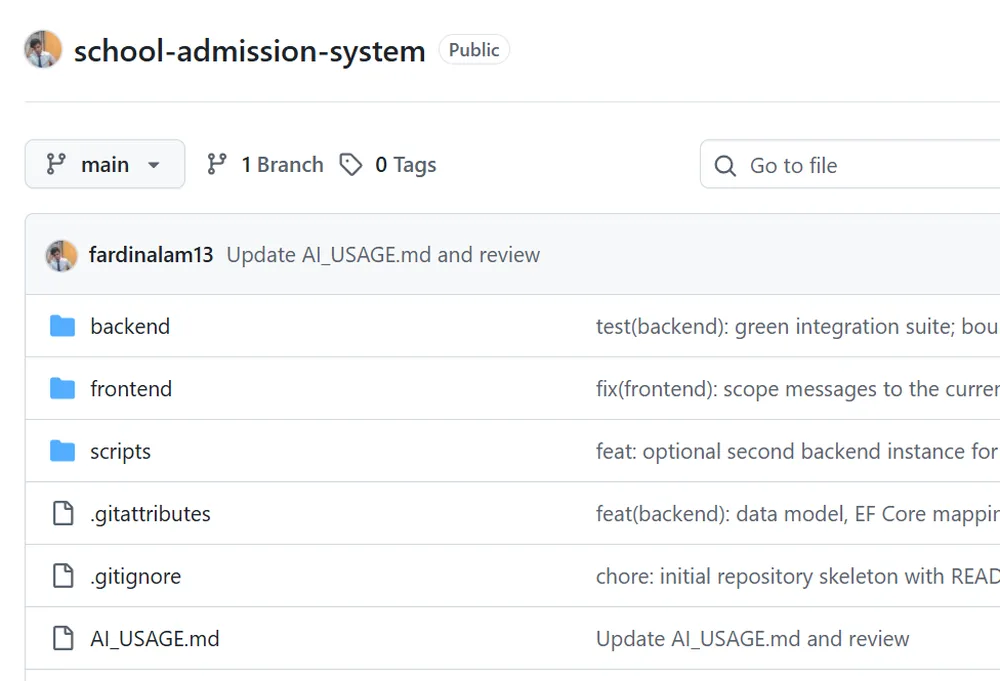
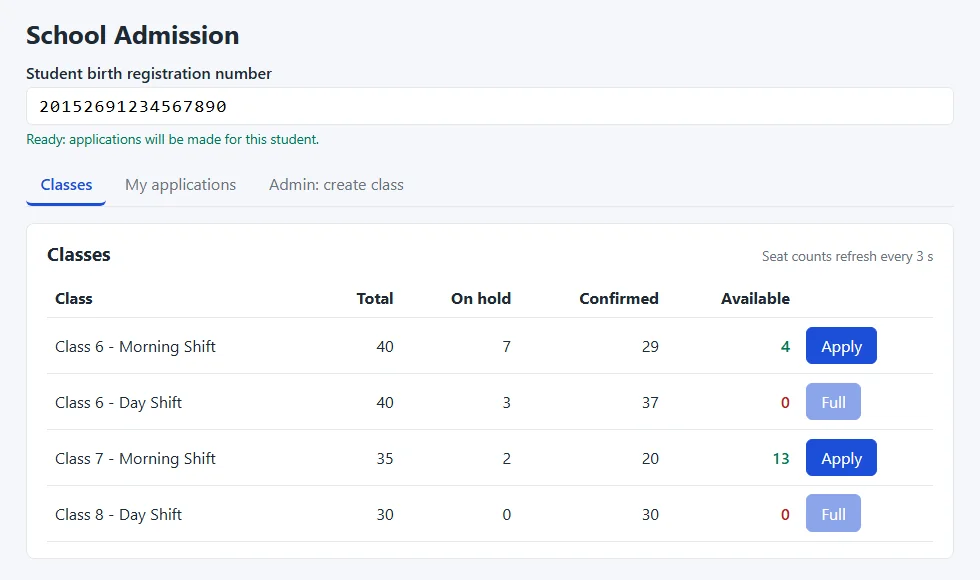
Show the School Admission System UI instead of the GitHub page
Project card now uses captures of the running React frontend: the Classes
tab with live seat accounting, and the My applications tab (hold countdown,
confirmed and expired cards) on hover.

diff --git a/index.html b/index.html
@@ -362,7 +362,8 @@
 
           <article class="project reveal">
             <a class="project__media" href="https://github.com/fardinalam13/school-admission-system" target="_blank" rel="noopener" aria-label="School Admission System on GitHub">
-              <img src="assets/img/school-admission.webp" alt="school-admission-system repository on GitHub with backend, frontend and scripts folders" loading="lazy" width="1000" height="681">
+              <img src="assets/img/school-admission.webp" style="object-position: top left" alt="School Admission System: Classes tab with live total, on-hold, confirmed and available seat counts and Apply buttons" loading="lazy" width="980" height="580">
+              <img class="project__media-alt" src="assets/img/school-admission-2.webp" style="object-position: top left" alt="School Admission System: My applications tab with a held seat countdown, a confirmed admission and an expired application" loading="lazy" width="980" height="820">
             </a>
             <div class="project__body">
               <span class="project__kind"><i class="fa-solid fa-school"></i> Full-Stack · .NET + React</span>
